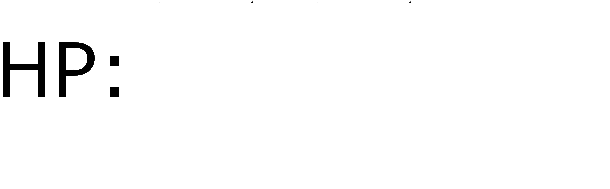
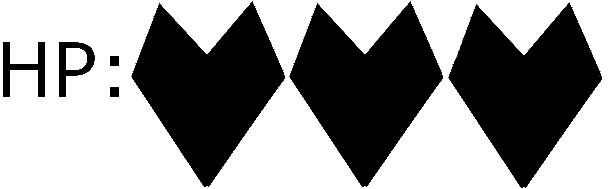
hp

diff --git a/player.py b/player.py
@@ -2,7 +2,6 @@ import pygame
 from utils import collided
 import math
 import threading, time
-from ui import Ui
 class Player(pygame.sprite.Sprite):
     def __init__(self, x, y, game):
         super().__init__()
@@ -149,7 +148,7 @@ class Player(pygame.sprite.Sprite):
     def damage(self, n):
         if n > 0:
             self.remaining_health -= n
-            Ui.print_hp(None,self.remaining_health) 
+            self.game.ui.print_hp(self.remaining_health) 
             self.game.ui.print(f"OUCH ! -{n} dégats")
             if self.remaining_health <= 0:
                 self.game.ui.print("Oh nan :( Te voilà décédé maintenant.")

diff --git a/ui.py b/ui.py
@@ -39,7 +39,7 @@ class Ui(pygame.sprite.Sprite):
                 #self.display.blit(text,(0,0))
     def print_hp(self, hp):
         if hp>=0:
-            hp='assets/hp'+str(hp)+'.png'
+            self.hp='assets/hp'+str(hp)+'.png'
             self.hp_image=pygame.transform.scale(pygame.image.load(self.hp), (150, 50)).convert_alpha()
             self.image.blit(self.hp_image,(10,10)) 
 
